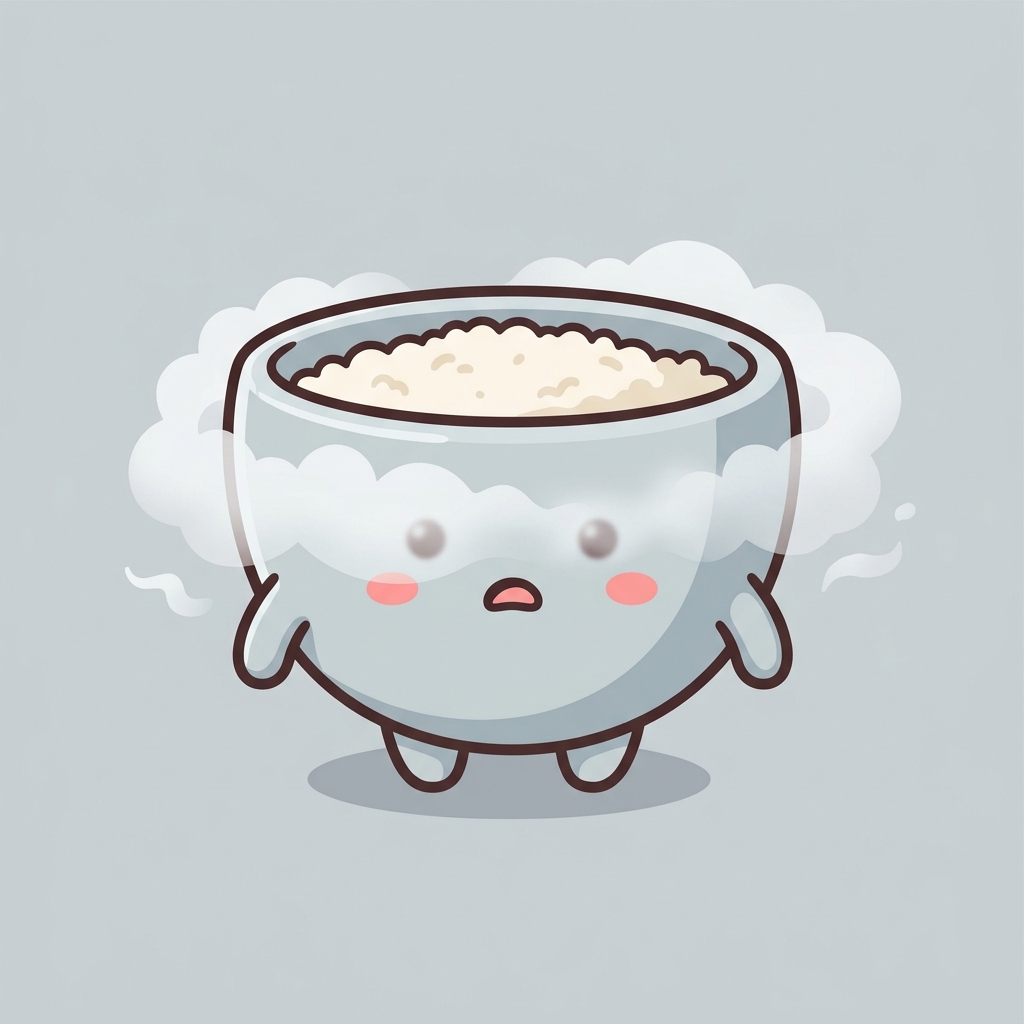
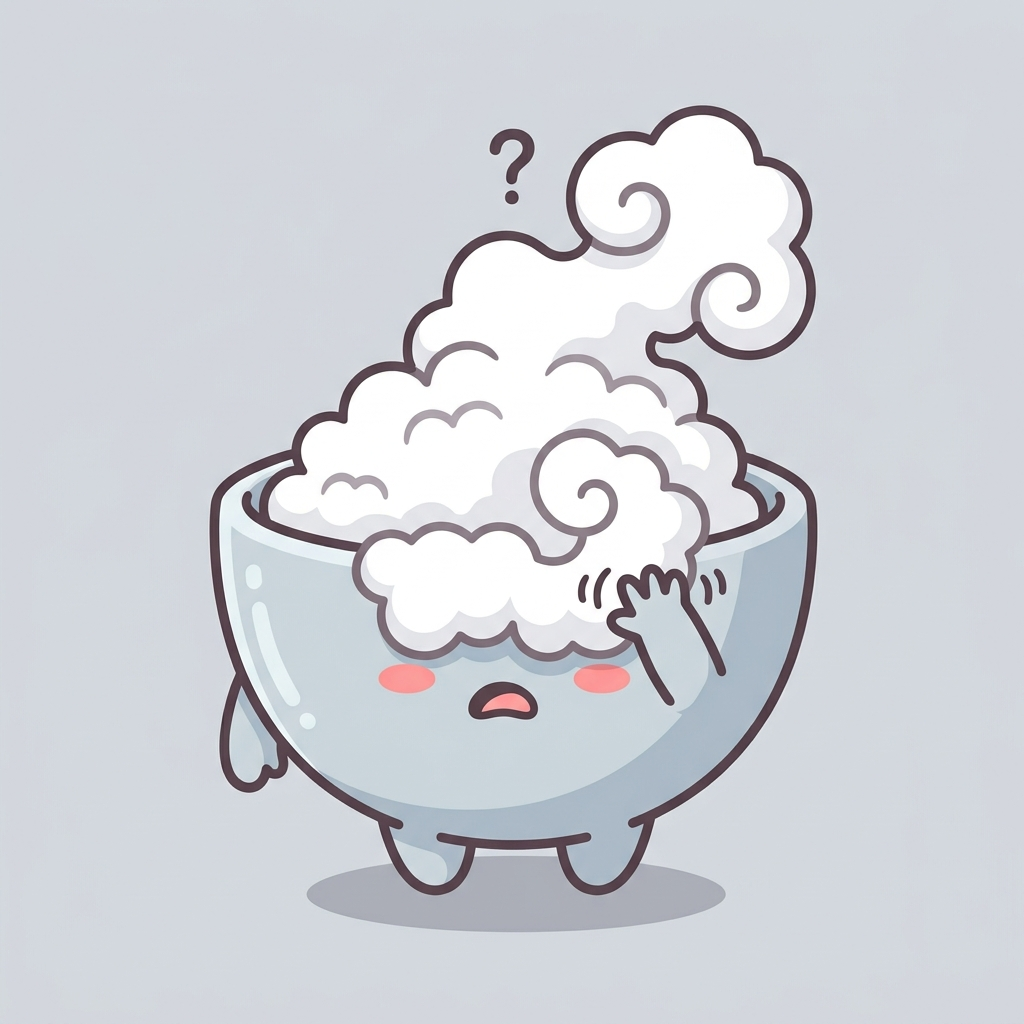
auto-commit for cf32629c-0038-4657-b9d0-0e26cda1a3fc

Changed region(s): [[0.125, 0.0938, 0.875, 0.9375]]

diff --git a/backend/generate_emotion_icons.py b/backend/generate_emotion_icons.py
@@ -231,9 +231,9 @@ EMOTIONS = [
      "dusty plum"),
 
     # ---- Unspoken / 講唔出 (fallback bucket) ----
-    # foggy — 濛查查, soft misty fog wrapping the bowl
-    ("foggy",        "soft pale dove grey-blue",        RICE_HALF,
-     "half of the bowl (especially the upper head area with the eyes) is gently WRAPPED and PARTIALLY OBSCURED by a soft translucent puffy white MIST / FOG CLOUD swirling around it (like a low-lying fog bank hugging the mascot); through the mist we can only faintly see two vague blurry dot eyes and a small confused parted-lip o-mouth; both tiny stubby arms hang slightly outward as if lost inside the fog; a few tiny extra fog wisps drifting off to the sides; overall dreamy hazy dazed vibe",
+    # foggy — 濛查查, bowl filled with FOG instead of rice, fog rising to blind the mascot
+    ("foggy",        "soft pale dove grey-blue",        RICE_TINY,
+     "the INSIDE of the bowl contains NO RICE OR ALMOST NO RICE — instead the bowl is FILLED WITH A THICK BILLOWING WHITE FOG CLOUD sitting inside it (a dense puffy cotton-like mist mound occupying where the rice normally would be); this fog is RISING UPWARD out of the bowl in big puffy cloud shapes that DRIFT UP AND CURL BACK DOWN over the front of the bowl, completely covering and OBSCURING the mascot's EYE AREA from above (the eyes are HIDDEN behind the fog — do not draw eyes peeking through); only the lower half of the face below the fog is visible, showing pink blush cheeks and a small worried uncertain parted-lip o-shape mouth; ONE tiny stubby arm is raised up waving through the fog in front of its face trying to swat the fog away (fingers spread trying to clear the mist), the other arm hangs down; a small question mark floats above the fog cloud; overall clear vibe of 'the fog is coming from inside me and I can't see'",
      "pale misty grey"),
     # questioning — 問號, big question mark, curious head-tilt
     ("questioning",  "soft warm cream beige",           RICE_FULL,
